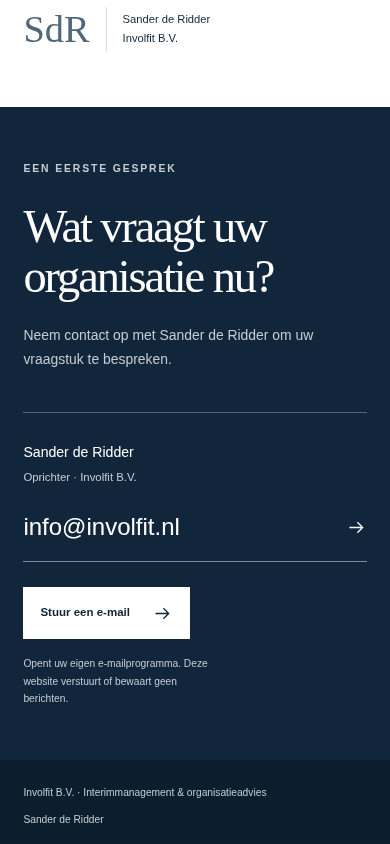
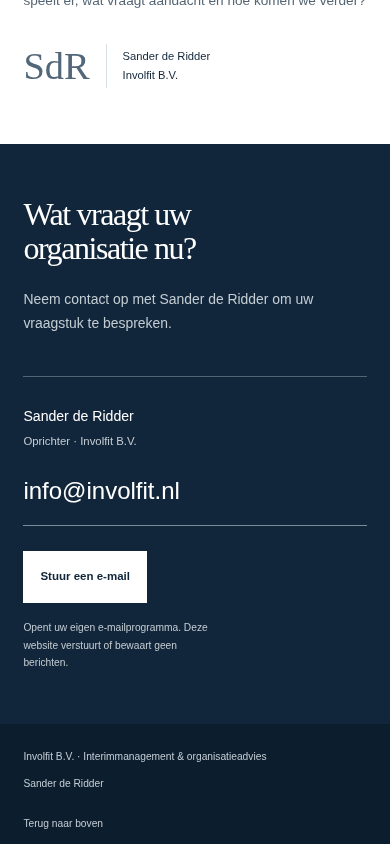
test(site): verify touch interaction and refresh revised design screenshots

diff --git a/projects/involfit-interim/tests/browser.py b/projects/involfit-interim/tests/browser.py
@@ -85,13 +85,25 @@ try:
   assert page.locator('.route-end').evaluate('(el)=>getComputedStyle(el).transitionDuration')=='0s'
   assert 'Interimmanagement' in page.locator('.route-contact').get_attribute('href')
   passed('reduced motion: no path/circle animation, question explorer remains functional')
+  touch_context=browser.new_context(viewport={'width':390,'height':844},is_mobile=True,has_touch=True)
+  touch_page=touch_context.new_page();touch_page.goto(base+'/index.html')
+  touch_page.locator('[data-choice="advies"]').tap()
+  assert touch_page.locator('#route-title').inner_text()=='Organisatieadvies'
+  assert 'Organisatieadvies' in touch_page.locator('.route-contact').get_attribute('href')
+  touch_page.locator('[data-choice="interim"]').tap()
+  assert touch_page.locator('#route-title').inner_text()=='Interimmanagement'
+  assert touch_page.locator('[data-choice="interim"]').bounding_box()['height']>=44
+  touch_context.close()
+  passed('touch: both question choices respond and preserve the correct contact subject')
   nojs=browser.new_context(java_script_enabled=False,viewport={'width':390,'height':844})
   plain=nojs.new_page();plain.goto(base+'/index.html')
   assert plain.get_by_role('navigation').is_visible()
   plain.get_by_role('navigation').get_by_role('link',name='Contact',exact=True).click()
   assert plain.url.endswith('#contact')
   assert plain.locator('#contact a[href="mailto:info@involfit.nl"]').is_visible()
-  passed('JavaScript disabled: navigation and contact available')
+  assert plain.locator('.question-tool').is_hidden()
+  assert 'uw vraag begrijpen' in plain.locator('#werkwijze noscript').inner_text()
+  passed('JavaScript disabled: navigation, contact and static approach available')
   standalone=browser.new_page(viewport={'width':390,'height':844})
   offline_errors=[];offline_requests=[]
   standalone.on('pageerror',lambda e:offline_errors.append(str(e)))

diff --git a/projects/involfit-interim/review/README.md b/projects/involfit-interim/review/README.md
@@ -1,6 +1,6 @@
 # Review Involfit B.V. — interimmanagement en organisatieadvies
 
-Gecontroleerd: 2026-11-17T16:42:41+01:00 (Europe/Amsterdam). Websitebron: `b4b6f9af5b1539721940fc135fa96a63dcb5d1e4`, branch `site/involfit-interim`, project `projects/involfit-interim/`.
+Gecontroleerd: 2026-11-17T16:49:07+01:00 (Europe/Amsterdam). Websitebron: `38f7ebcb594695bd410d84fee0cb3f7f9af6e794`, branch `site/involfit-interim`, project `projects/involfit-interim/`.
 
 [Zelfstandige downloadpreview](../index.html) · [GitHub-projectmap](https://github.com/Runeinvolfit-digital/Ai-Team/tree/site/involfit-interim/projects/involfit-interim)
 
@@ -8,7 +8,7 @@ Gecontroleerd: 2026-11-17T16:42:41+01:00 (Europe/Amsterdam). Websitebron: `b4b6f
 
 Gebruikersgegevens: Involfit B.V., Sander de Ridder (oprichter), interimmanagement en organisatieadvies, info@involfit.nl; geen telefoon beschikbaar. Donkerblauw #11263a, wit en zilver #c4ccd3. Ruimte voor een portret, expliciet gemarkeerd met “Portret volgt”. Geen verzonnen foto, klantnamen, resultaten, ervaring, adres of certificeringen. De teksten over de voorgestelde werkwijze zijn conceptcopy voor beoordeling door Sander.
 
-Eén specialist leverde websitecopy en deed een gerichte read-only bronreview; de hoofduitvoerder bouwde en testte. Maximaal twee uitvoerders tegelijk. De review vond dat de hero buiten het main-landmark stond. Dit is gecorrigeerd en de browsertest controleert nu dat de H1 binnen main staat. Geen andere concrete brondefecten gemeld. Geen tokenbesparing gemeten.
+Bij de oorspronkelijke versie leverde één specialist websitecopy en deed een gerichte read-only bronreview; de hoofduitvoerder bouwde en testte. Maximaal twee uitvoerders tegelijk. De review vond dat de hero buiten het main-landmark stond. Dit is gecorrigeerd en de browsertest controleert nu dat de H1 binnen main staat. Geen andere concrete brondefecten gemeld. Geen tokenbesparing gemeten.
 
 ## Screenshots
 
@@ -17,18 +17,20 @@ Lokale Chromium-opnamen van dezelfde websiteversie. Dit zijn zichtbare browserve
 | Onderdeel | Desktop 1440×1000 | Mobiel 390×844 |
 |---|---|---|
 | Introductie en portretvlak | [Screenshot](home-desktop.png) | [Screenshot](home-mobiel.png) |
+| Vraagverkenner | [Screenshot](explorer-desktop.png) | [Screenshot](explorer-mobiel.png) |
 | Contact | [Screenshot](contact-desktop.png) | [Screenshot](contact-mobiel.png) |
 
 ## Werkelijk getest
 
-`python3 tests/browser.py --axe /tmp/involfit-qa/node_modules/axe-core/axe.min.js` — **10 controlegroepen geslaagd**. [Resultaten](test-results.json).
+`python3 tests/browser.py --axe /tmp/involfit-qa/node_modules/axe-core/axe.min.js` — **12 controlegroepen geslaagd**. [Resultaten](test-results.json).
 
 - 1440×1000, 390×844, 320×720, 844×390: geen horizontale overflow; juiste inhoud, werkende ankerdoelen, gereserveerd portretvlak en mailto-adressen.
 - axe-core 4.11.0, WCAG2A/AA, WCAG2.1AA en WCAG2.2AA-tags: geen gerapporteerde overtredingen op de vier schermformaten.
 - Mobiel menu: openen met Enter, sluiten met Escape, focusherstel, navigeren naar Diensten, sluiten na selectie en focus op de gekozen sectie.
 - Navigatie blijft zichtbaar bij overschakelen van mobiel naar desktop.
-- Reduced motion schakelt vloeiend scrollen uit.
-- Zonder JavaScript blijven navigatie en e-mailcontact beschikbaar.
+- Vraagverkenner: kiezen met toetsenbord en touch verandert de toelichting en het mailonderwerp. De geselecteerde lijn wordt zichtbaar geanimeerd. Beide keuzes zijn functioneel getest.
+- Reduced motion schakelt vloeiend scrollen en beide vormen van lijnanimatie uit; kiezen en e-mailonderwerp blijven functioneren.
+- Zonder JavaScript blijven navigatie, e-mailcontact en een statische beschrijving van de aanpak beschikbaar.
 - Zelfstandige HTML-inhoud met Playwright set_content: menu en inhoud functioneren zonder resourceverzoeken. De download heeft geen externe afhankelijkheden.
 - Geen JavaScript- of HTTP-fouten, externe verzoeken, cookies of localStorage/sessionStorage waargenomen.
 - `python3 scripts/check-agency.py` vanuit de repositoryroot: 22 rollen en alle 14 kennisbestanden behouden.
@@ -43,3 +45,11 @@ De exacte zelfstandige documentinhoud is via set_content getest. Direct file:// 
 E-mailknoppen bevatten het door de gebruiker opgegeven adres en openen de eigen mailapp. Er is geen formulier of backend; berichten versturen/afleveren is niet uitgevoerd of bewezen. De link “Stuur een e-mail” verzendt op zichzelf niets.
 
 Open: echte portretfoto toevoegen na goedkeuring, conceptcopy laten bevestigen, een externe previewomgeving beschikbaar maken en de exacte preview-URL controleren. Productiepublicatie vereist expliciete toestemming voor versie en bestemming. Er is niets naar productie gepubliceerd. Agency en kennisbank op main en de eerdere architectuurbranch zijn behouden.
+
+## Verwerkte ontwerpfeedback
+
+Geen titels boven titels, geen decoratieve bovenlabels of nummers en geen pijltjes op knoppen/links. De hoofdkop is korter en maximaal 56px; overige koppen zijn proportioneel verkleind. De service-inhoud en het portretvlak blijven behouden. Deze verbetering is door één uitvoerder gedaan; er zijn geen extra agents of brede audits gestart.
+
+De nieuwe vraagverkenner heeft een concrete functie: kiezen tussen tijdelijke versterking en organisatieadvies, met passende uitleg en een passend onderwerp voor de e-mail. De lijn is een selectie-indicator, geen gemeten proces, diagnose of resultaatbelofte. Er wordt niets automatisch verstuurd of opgeslagen. De animatie reageert alleen op een andere keuze, speelt niet voortdurend en vervalt bij prefers-reduced-motion.
+
+De ontwerpvoorkeuren zijn ook opgeslagen op main in agency/rules/design-preferences.md en meegenomen in deze sitebranch. De bestaande knowledge-map is ongewijzigd.

diff --git a/projects/involfit-interim/README.md b/projects/involfit-interim/README.md
@@ -21,3 +21,7 @@ Tests: `python3 tests/browser.py`; optioneel met `--axe /pad/naar/axe.min.js` vo
 ## Branch
 
 `site/involfit-interim`, gebaseerd op `main`; projectmap `projects/involfit-interim/`. Agency en kennisbank blijven op `main`. Geen website naar productie publiceren zonder expliciete goedkeuring. De preview heeft bewust noindex/nofollow; controleer metadata en bedrijfsinhoud vóór een eventuele goedgekeurde productiepublicatie.
+
+## Ontwerpfeedback en onderscheidende functie
+
+Koppen zijn compact, zonder decoratieve bovenlabels, nummering of pijltjes. De vraagverkenner bij Werkwijze laat bezoekers tussen tijdelijke versterking en een organisatievraag kiezen. Toelichting en e-mailonderwerp volgen de keuze, met een bewegende selectielijn. De SVG-lijn is geen data of diagnose. Toetsenbord, touch en prefers-reduced-motion zijn getest. Zonder JavaScript blijven de kerninhoud, aanpak en contactlinks beschikbaar.
